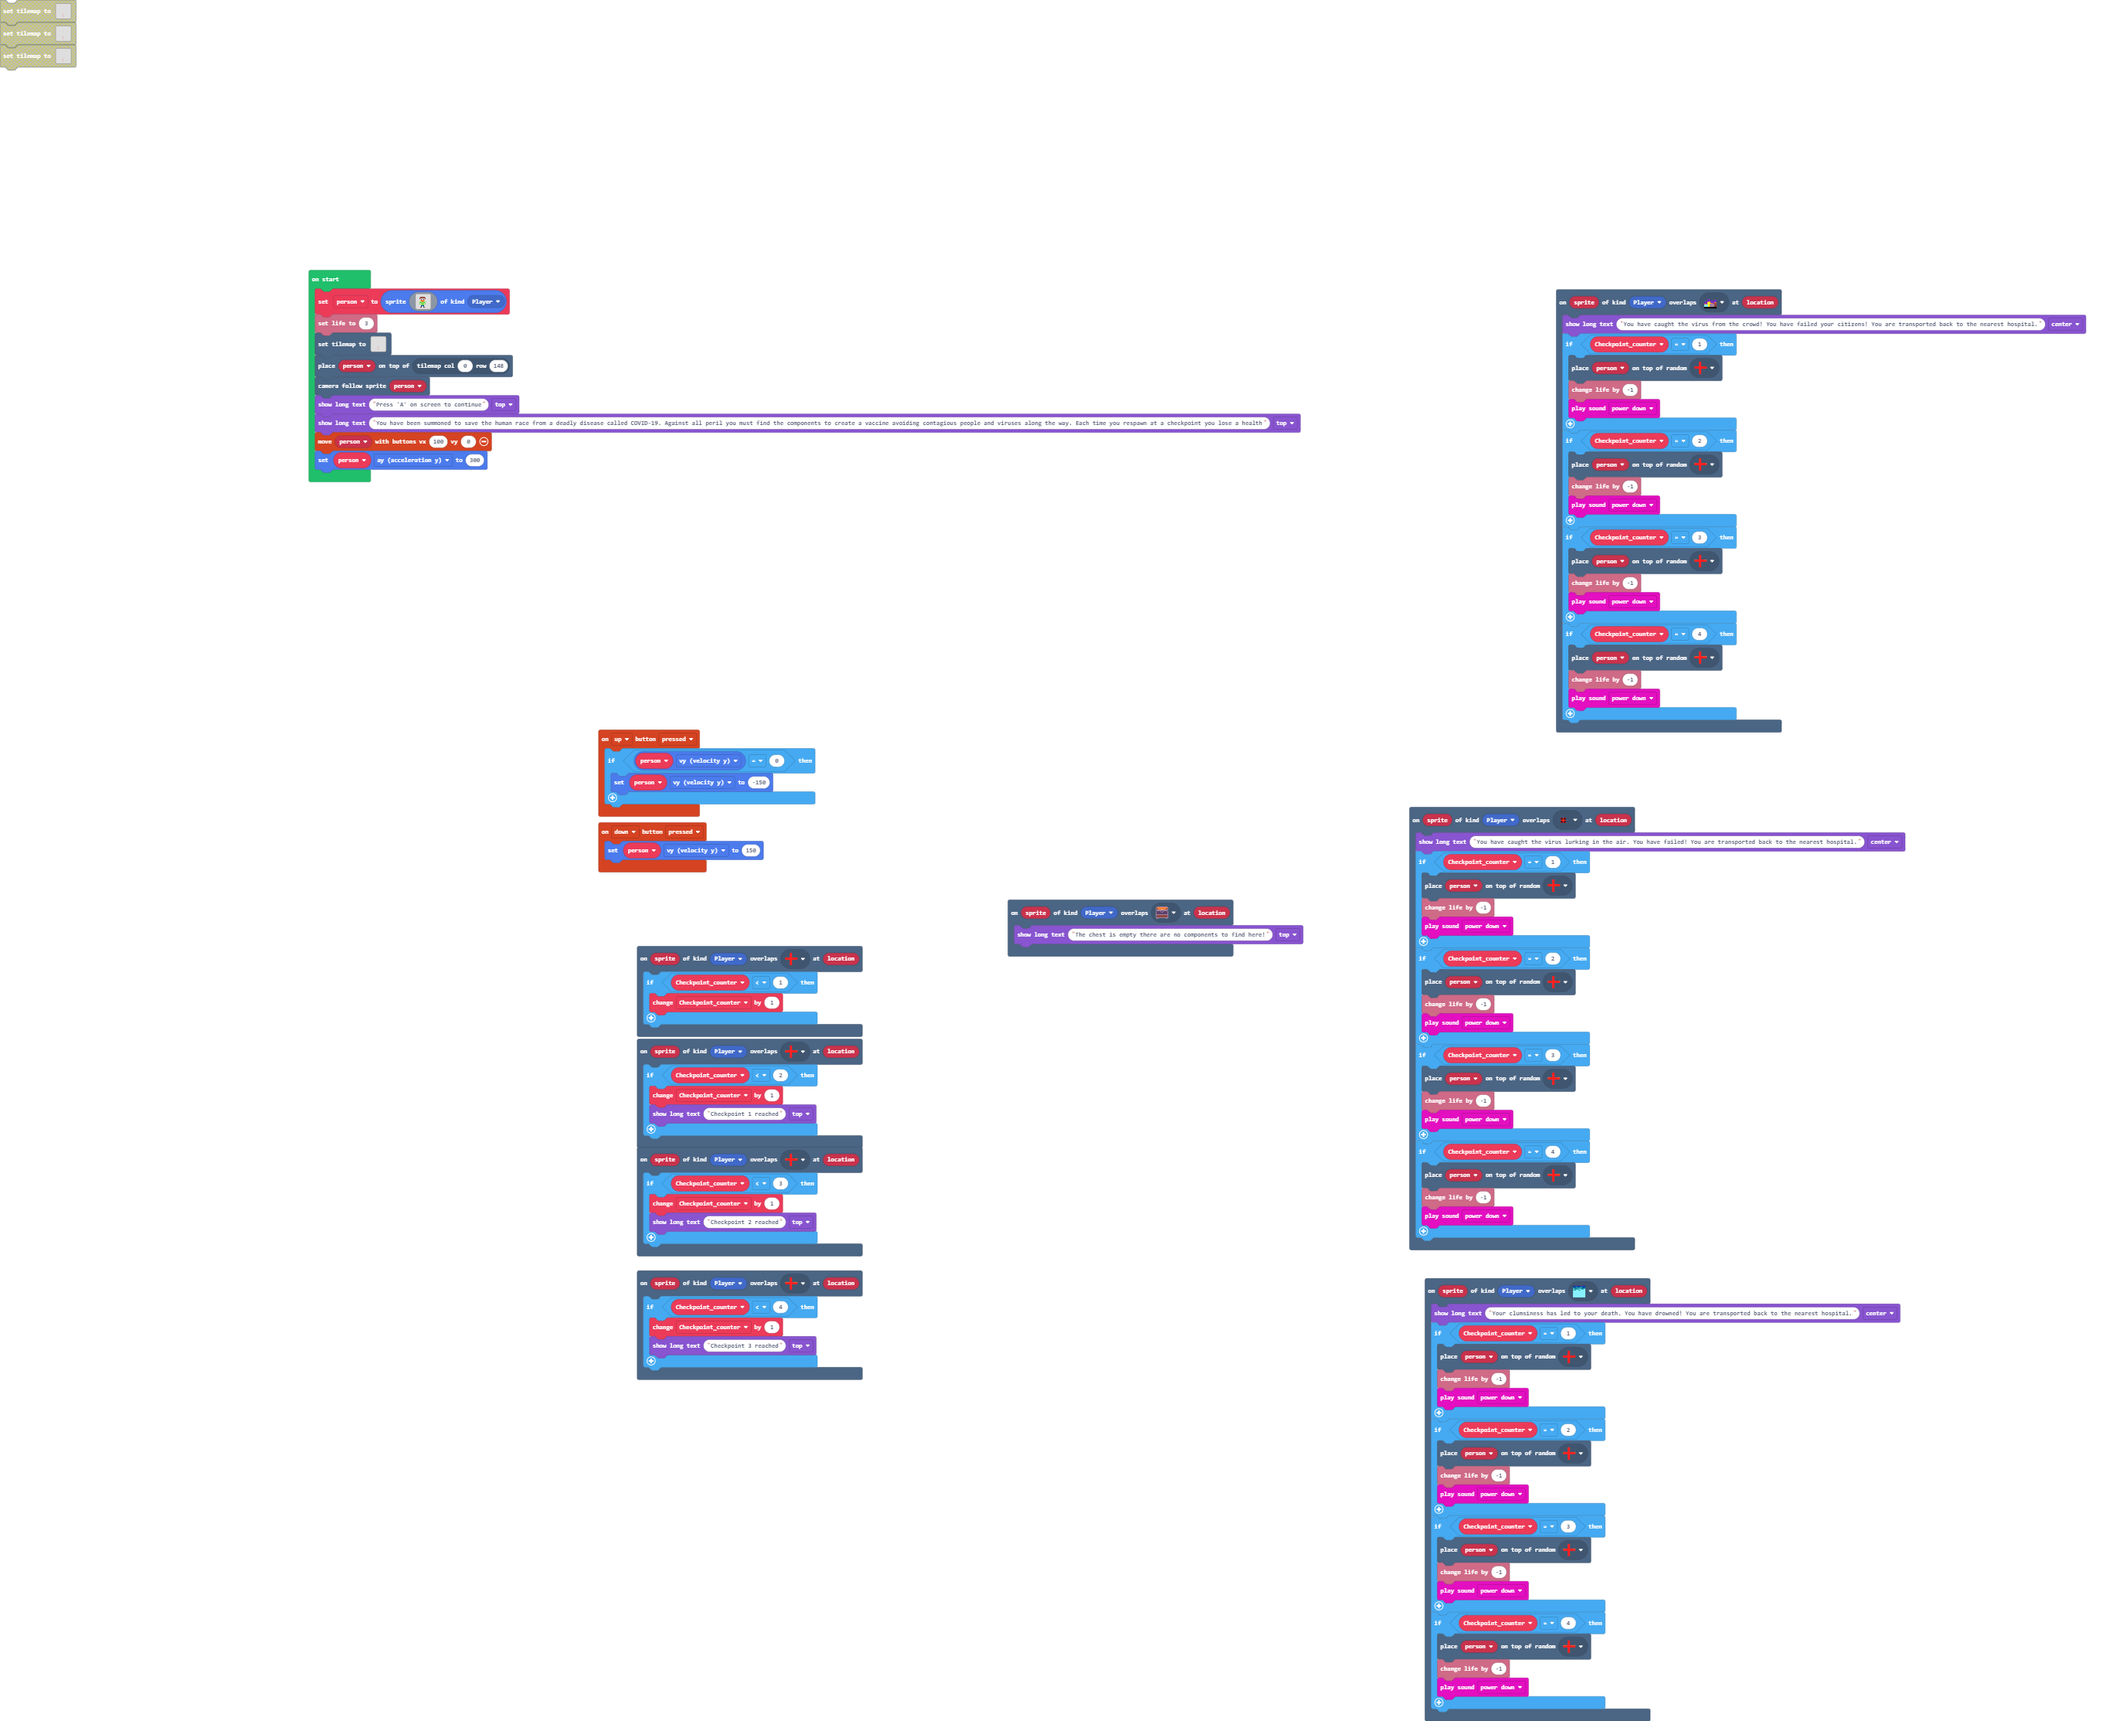
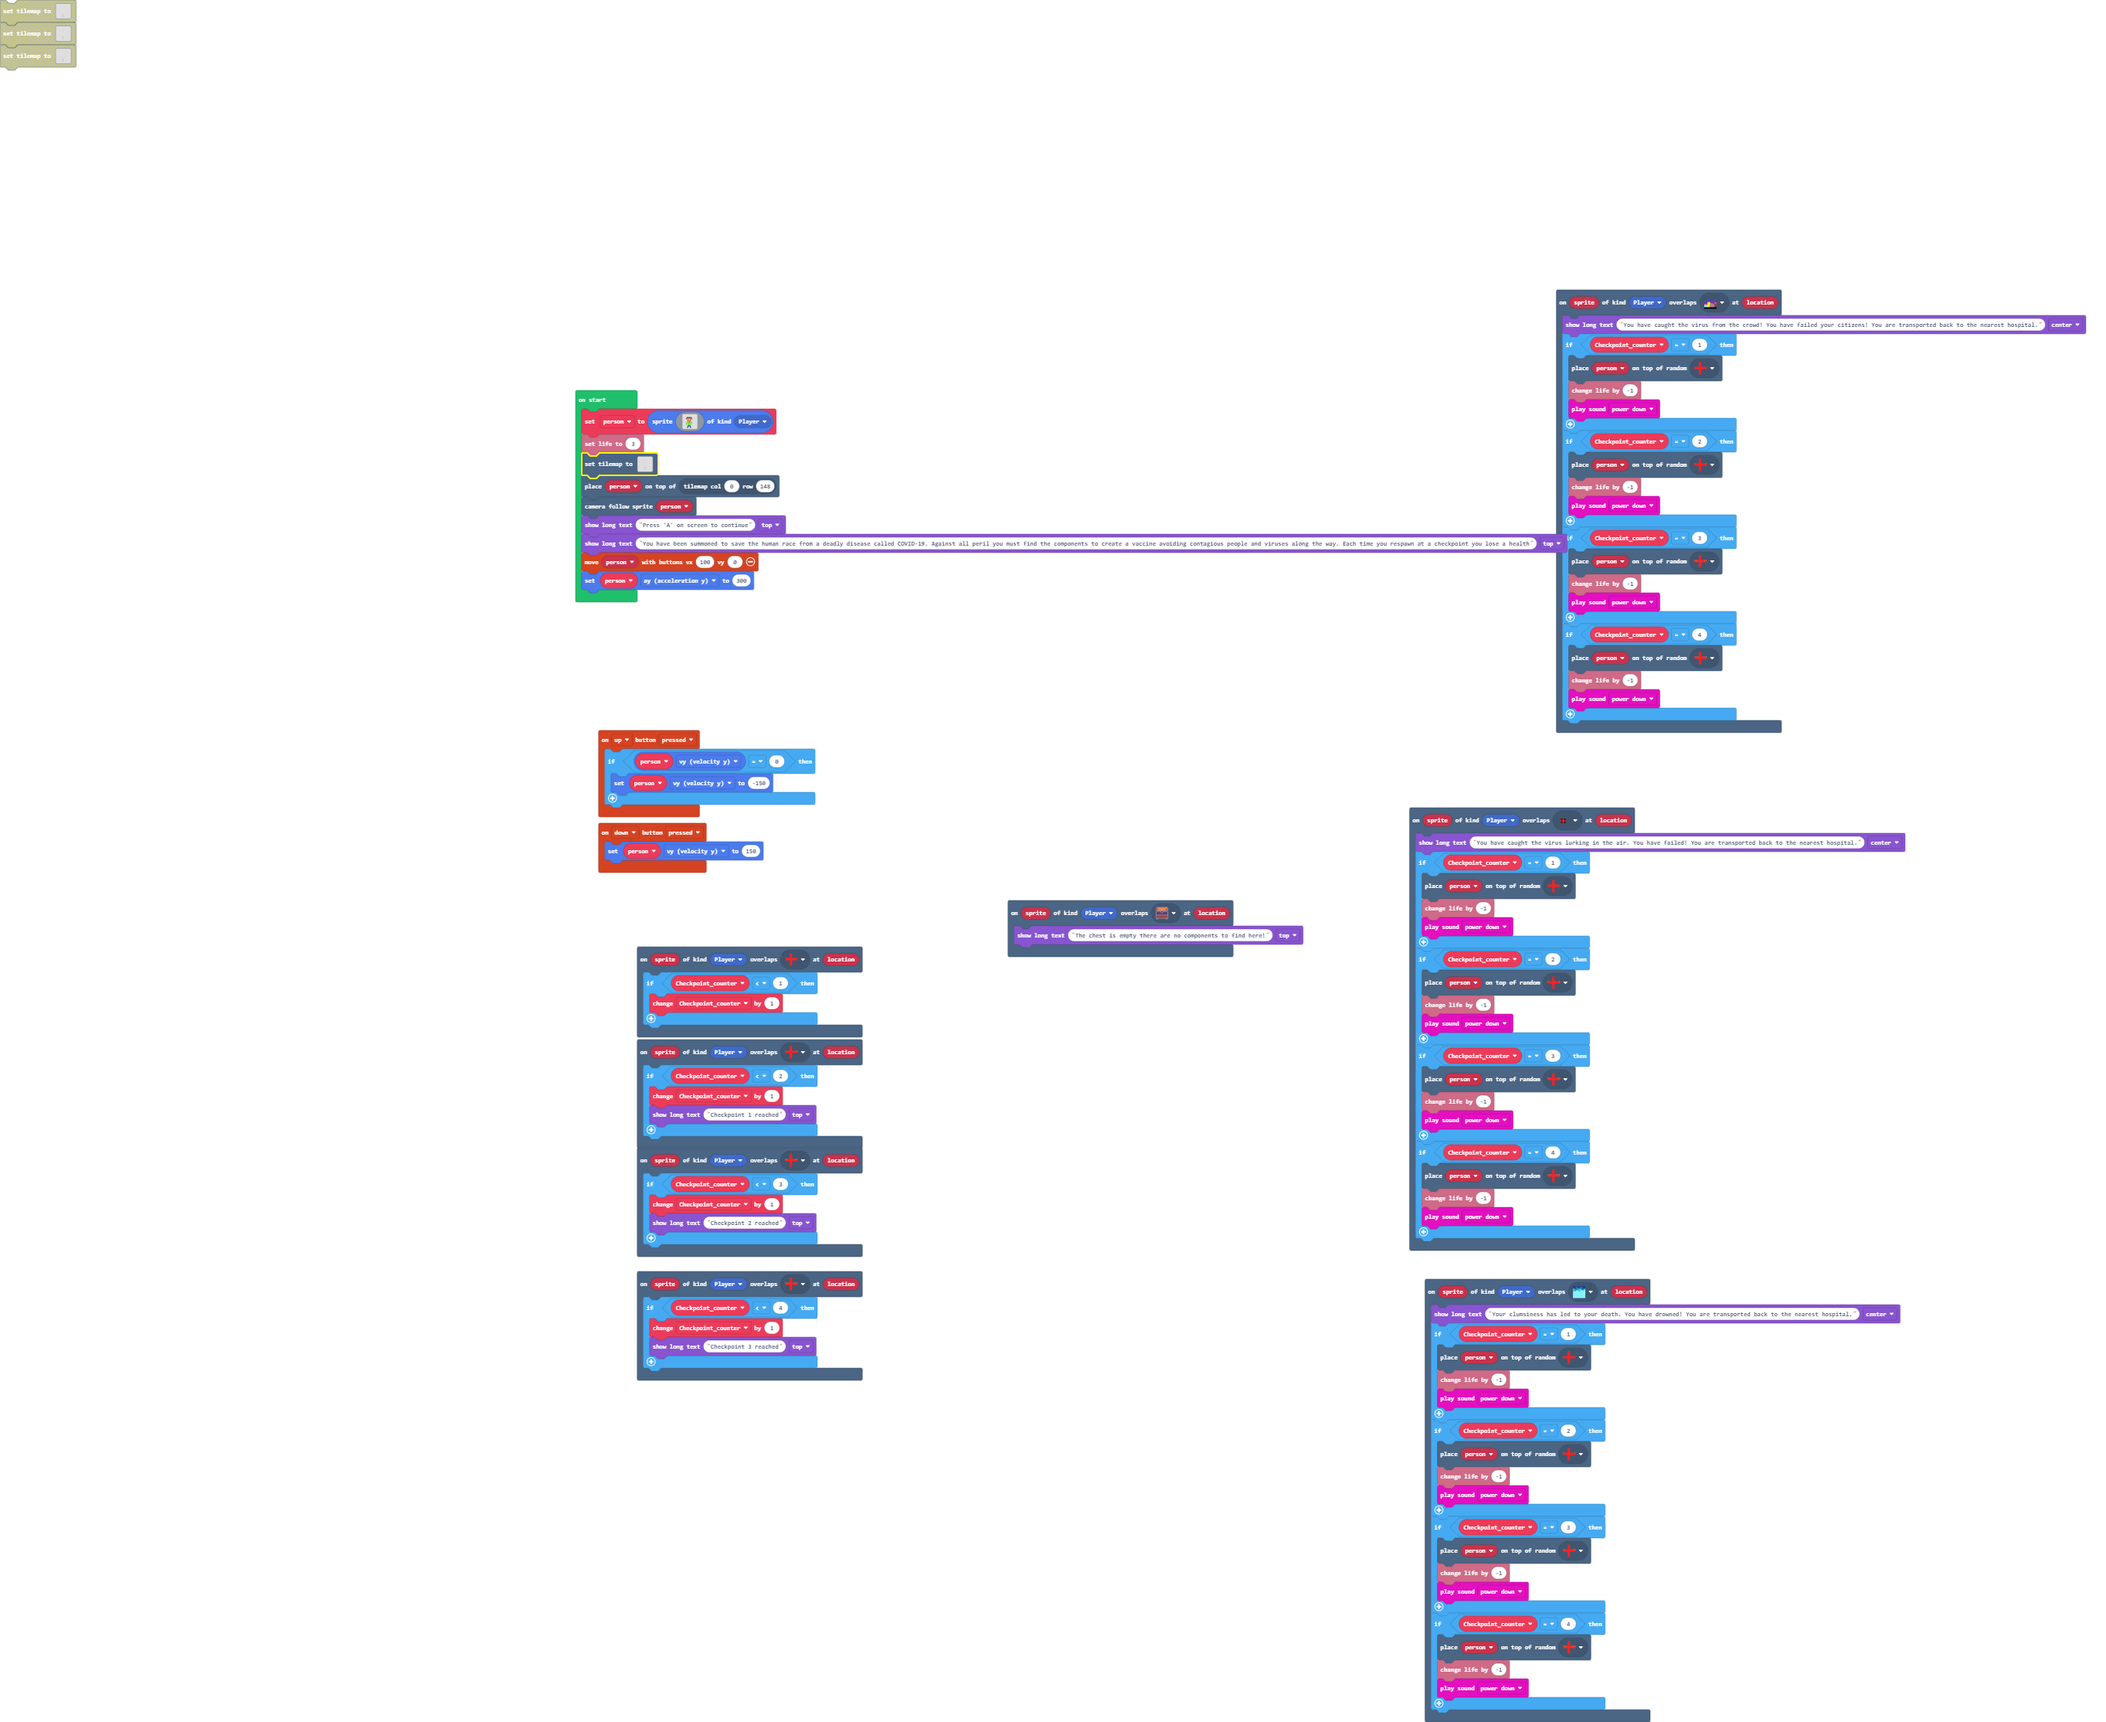
Map Change 06

diff --git a/tilemap.g.ts b/tilemap.g.ts
@@ -24,6 +24,10 @@ namespace myTiles {
     export const tile10 = image.ofBuffer(hex``);
     //% fixedInstance jres blockIdentity=images._tile
     export const tile11 = image.ofBuffer(hex``);
+    //% fixedInstance jres blockIdentity=images._tile
+    export const tile12 = image.ofBuffer(hex``);
+    //% fixedInstance jres blockIdentity=images._tile
+    export const tile13 = image.ofBuffer(hex``);
 
     helpers.registerTilemapFactory(function(name: string) {
         switch(helpers.stringTrim(name)) {
@@ -93,7 +97,7 @@ namespace myTiles {
 .....2.2............
 2222.2.2............
 `, [myTiles.transparency16,sprites.dungeon.floorLight4,sprites.dungeon.floorLight0,sprites.builtin.crowd2], TileScale.Sixteen)
[2 lines of base64/hex data omitted]
 ....................
 ....................
 ....................
@@ -244,7 +248,7 @@ namespace myTiles {
 .22..22222222...2...
 ....222.......2.....
 222222..............
-`, [myTiles.transparency16,sprites.dungeon.floorLight0,myTiles.tile5,myTiles.tile7,sprites.dungeon.hazardWater,myTiles.tile3,sprites.dungeon.chestClosed,sprites.dungeon.chestOpen,myTiles.tile8,myTiles.tile6,myTiles.tile9,myTiles.tile10,myTiles.tile11], TileScale.Sixteen)
+`, [myTiles.transparency16,myTiles.tile5,myTiles.tile7,sprites.dungeon.hazardWater,myTiles.tile3,sprites.dungeon.chestClosed,sprites.dungeon.chestOpen,myTiles.tile8,myTiles.tile6,myTiles.tile9,myTiles.tile10,myTiles.tile11,myTiles.tile12,myTiles.tile13], TileScale.Sixteen)
         }
         return null;
     })
